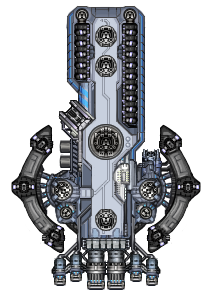
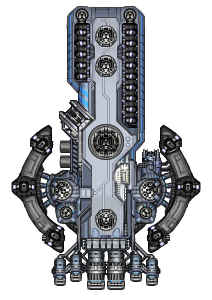
fix

Changed region(s): [[0.4245, 0.63, 0.566, 0.81], [0.4245, 0.03, 0.566, 0.12], [0.4528, 0.15, 0.566, 0.18]]

diff --git a/jars/src/data/scripts/world/nightcross/NA_StargazerFleets.java b/jars/src/data/scripts/world/nightcross/NA_StargazerFleets.java
@@ -120,7 +120,7 @@ public class NA_StargazerFleets {
             f.getFlagship().getCaptain().getStats().setSkillLevel(Skills.COORDINATED_MANEUVERS, 2);
             f.getFlagship().getCaptain().getStats().setSkillLevel(Skills.ELECTRONIC_WARFARE, 2);
 
-            if (random.nextBoolean())
+            if ((random != null && random.nextBoolean()) || (random == null && Math.random() < 0.5f))
                 f.getFlagship().getCaptain().getStats().setSkillLevel(Skills.WOLFPACK_TACTICS, 2);
             else f.getFlagship().getCaptain().getStats().setSkillLevel(Skills.TACTICAL_DRILLS, 2);
 
